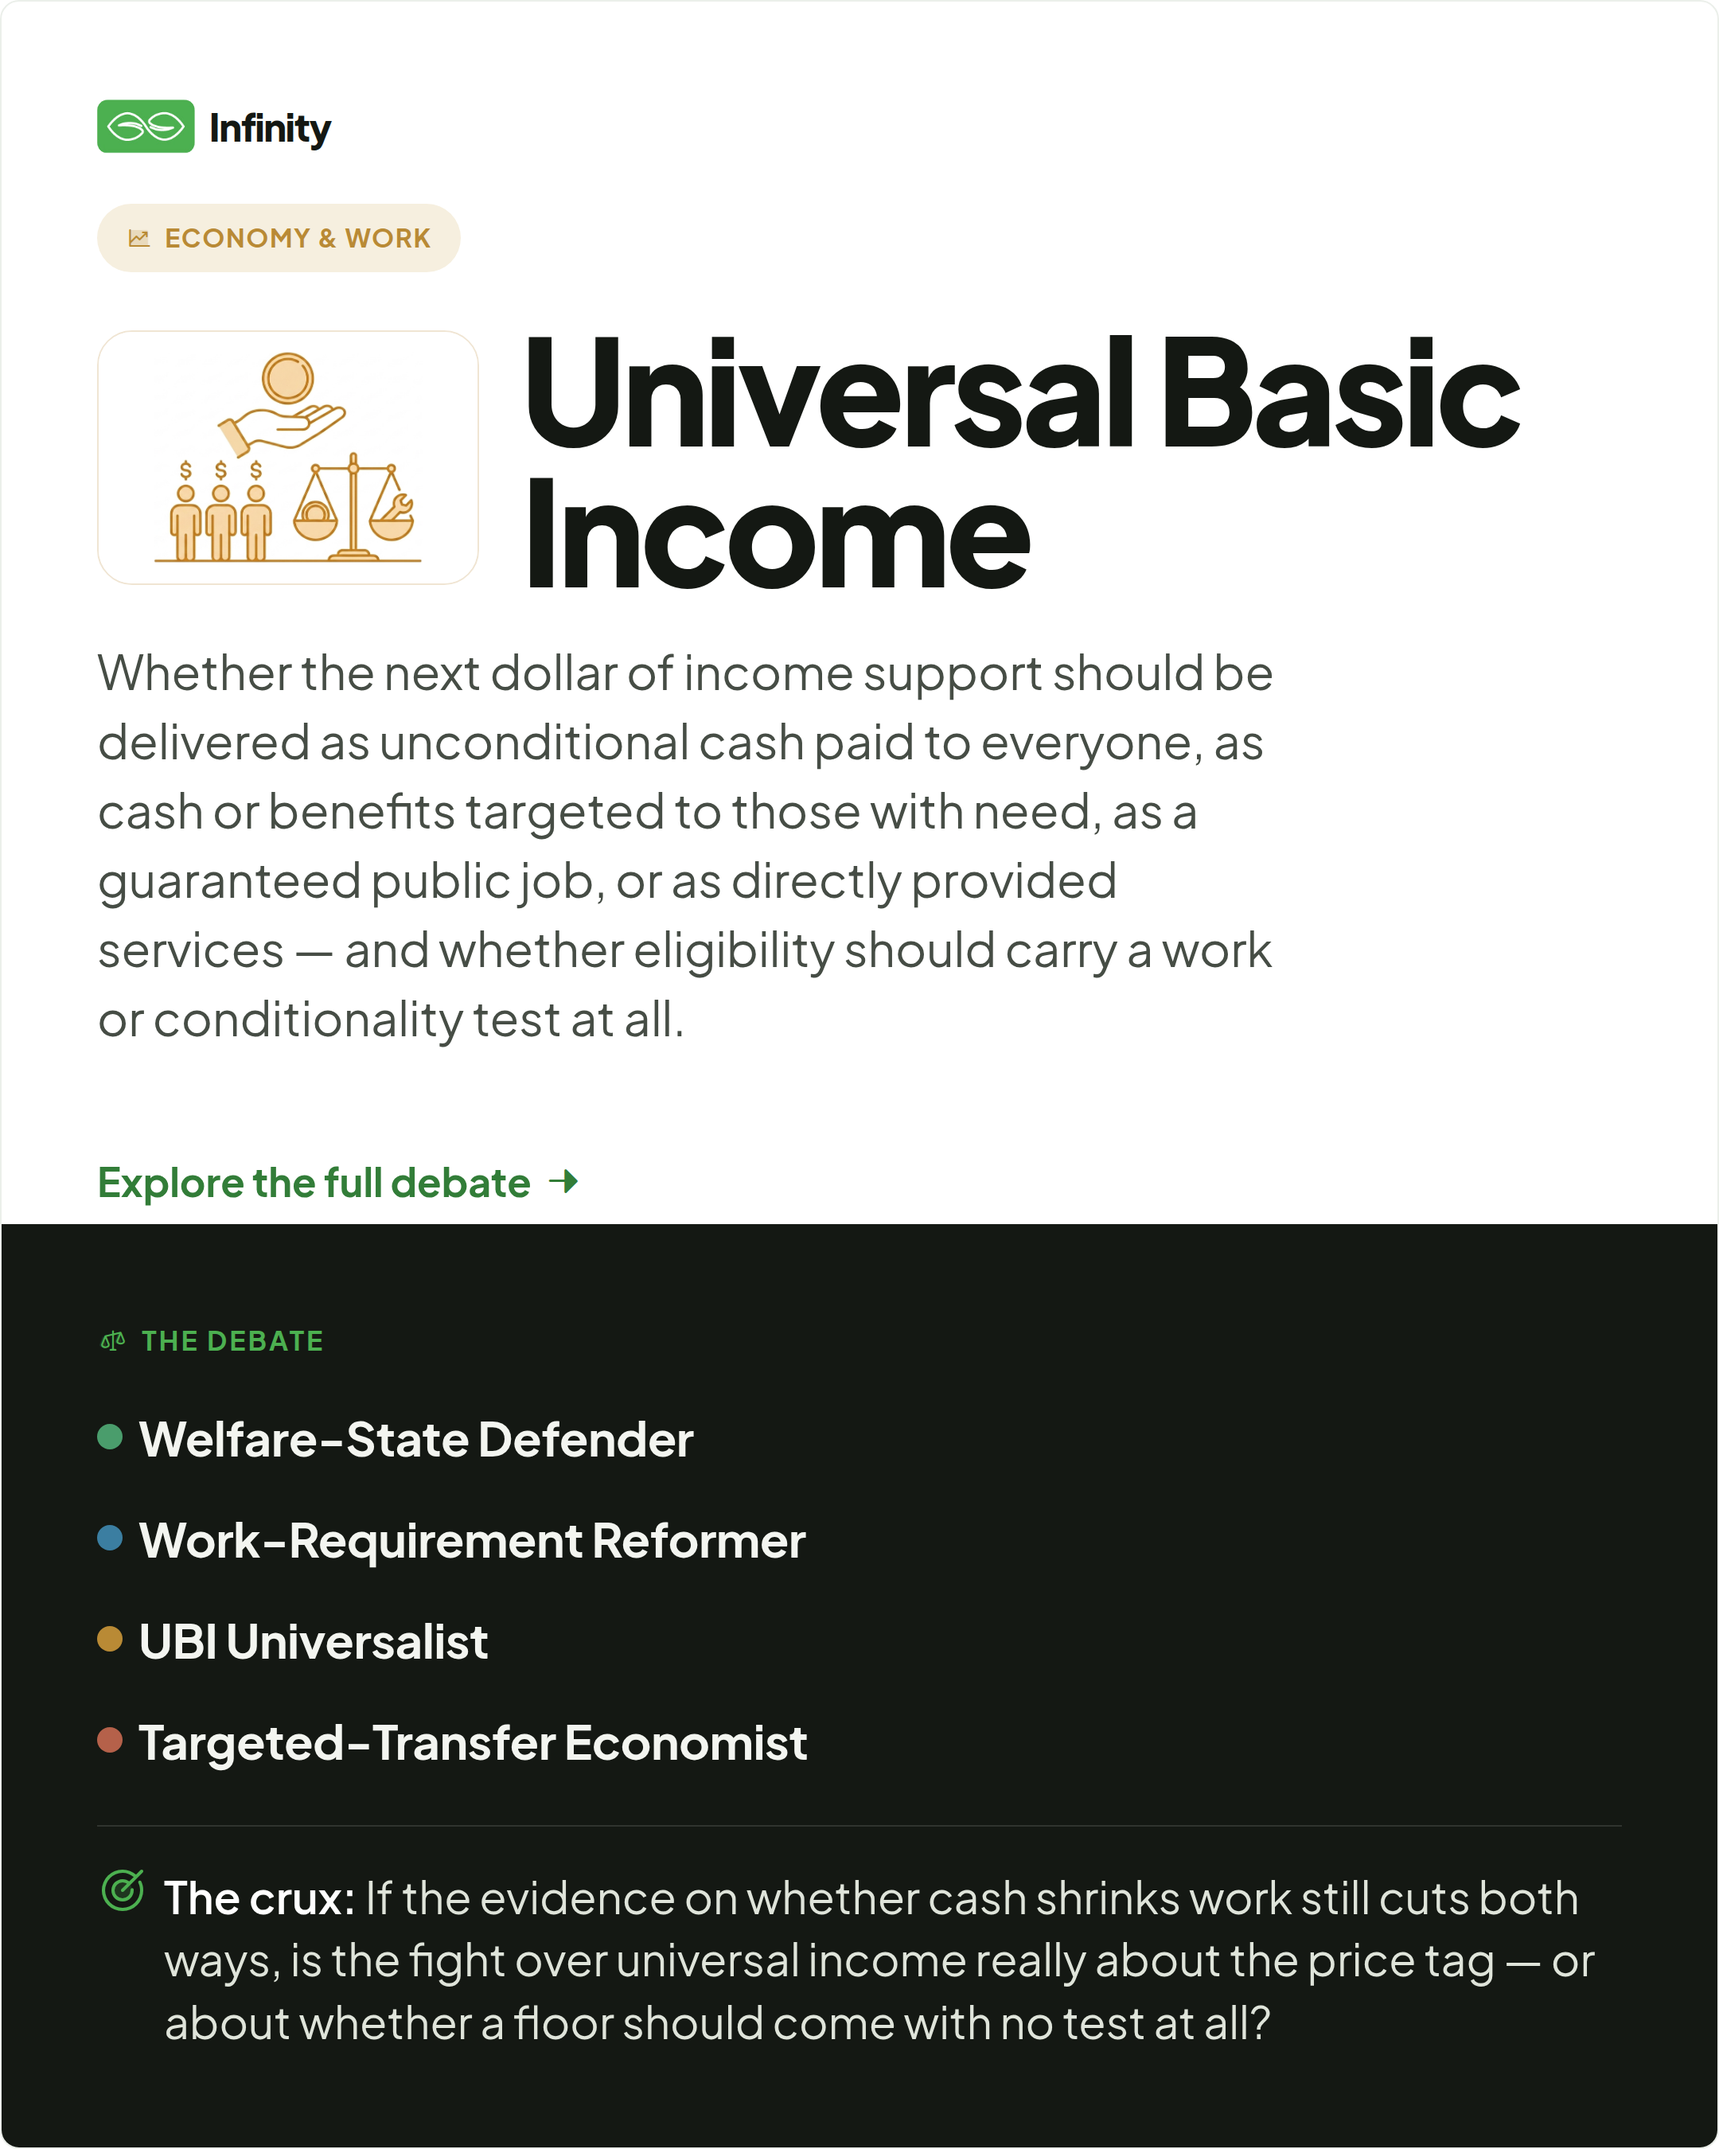
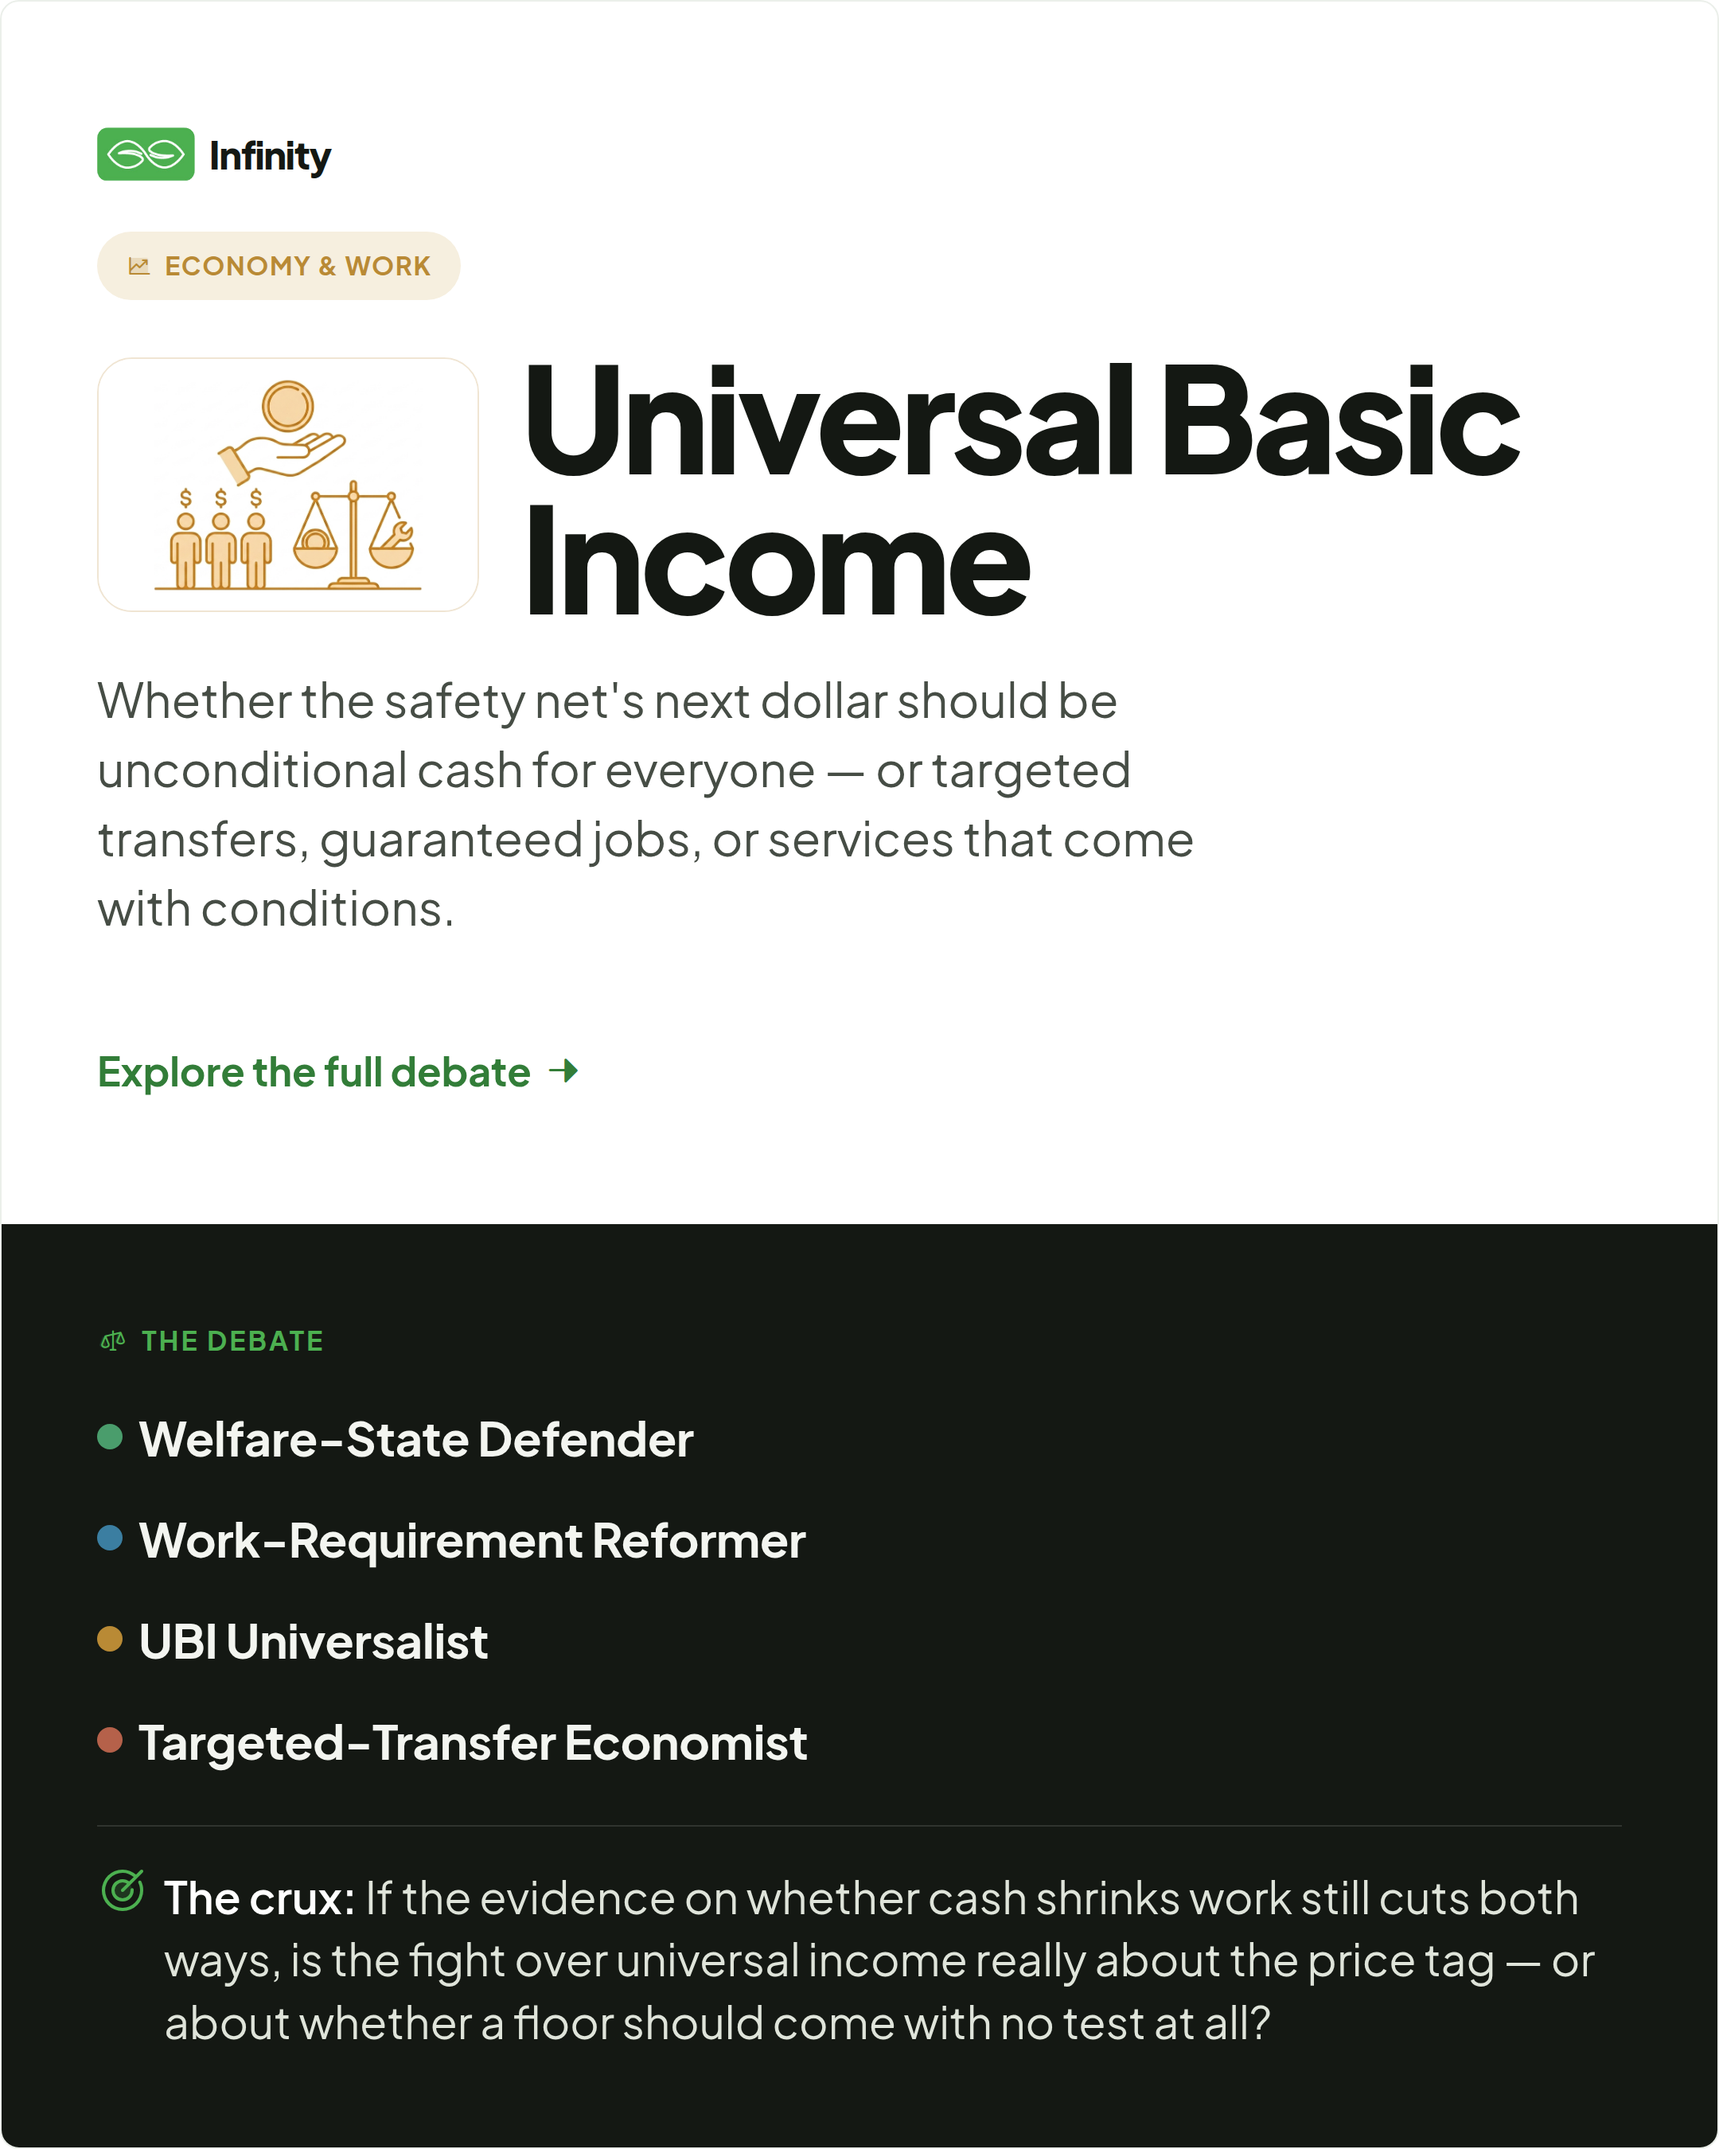
Condense the UBI summary to a hook; teach the engine the rule
288 -> 159 chars: the four delivery mechanisms live in scope, the
conditionality question in Q3 and the crux — the summary keeps only
what-it-is + why-it's-contested. The authoring engine's plan stage now
demands <= ~160-char hook summaries (inventories belong to scope and
the sections). og summary clamp back to 5 now that content fits.

Changed region(s): [[0.062, 0.1556, 0.8995, 0.56], [0.062, 0.0311, 0.2792, 0.28]]

diff --git a/templates/topics/share.html b/templates/topics/share.html
@@ -51,7 +51,7 @@
   .og .lt{flex:0 0 56%;justify-content:safe center} .og .brand{font-size:22px}.og .brand .mark{height:30px;width:auto}
   .og .cat{font-size:15px;padding:7px 15px;margin-top:24px} .og .ttlrow{margin-top:20px}
   .og .ticon{width:132px;height:132px}.og .ticon i{font-size:74px} .og .ttl{font-size:66px}
-  .og .summary{font-size:24px;margin-top:18px;max-width:26ch;-webkit-line-clamp:4}
+  .og .summary{font-size:24px;margin-top:18px;max-width:26ch;-webkit-line-clamp:5}
   .og .dk{flex:0 0 44%;--pgap:17px;--pmt:24px;justify-content:center} .og .dlabel{font-size:16px}
   .og .pos .pd{width:14px;height:14px}.og .pos .pnm{font-size:25px}
   .og .hook{margin-top:28px;padding-top:22px}.og .hook i{font-size:24px}.og .hook .ct{font-size:20px}
